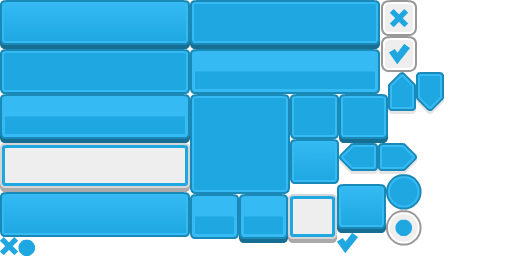
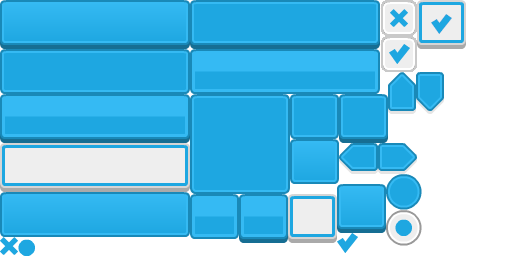
Added assets for drawing checkboxes and added checkbox for toggling the sound effects (currently hidden). Also updated the UiBlueSheetHover sprite sheet so that hover states are more noticable.

diff --git a/SnakeGame.cs b/SnakeGame.cs
@@ -141,6 +141,11 @@ namespace MonoSnake
             private CenteredUiDialog _scoreEntryCenteredUiDialog;
             private Sprite _uiButtonBlueSheetHoverCancel;
             private Sprite _uiButtonBlueSheetHoverConfirm;
+            private Sprite _uiCheckBoxBlueSheetBox;
+            private Sprite _uiCheckBoxBlueSheetChecked;
+            private ToggleUiButton _soundEnabledCheckBoxToggle;
+            private Sprite _uiCheckBoxBlueSheetHoverChecked;
+            private Sprite _uiCheckBoxBlueSheetHoverBox;
 
             #endregion Rectangles
 
@@ -370,6 +375,14 @@ namespace MonoSnake
 
             _uiButtonBlueSheetHoverConfirm = new Sprite(_uiBlueSpriteSheetHover, 36, 381, 36, 36);
 
+            _uiCheckBoxBlueSheetBox = new Sprite(_uiBlueSpriteSheet, 194, 288, 49, 49);
+
+            _uiCheckBoxBlueSheetChecked = new Sprite(_uiBlueSpriteSheet, 0, 417, 49, 49);
+
+            _uiCheckBoxBlueSheetHoverBox = new Sprite(_uiBlueSpriteSheetHover, 194, 288, 49, 49);
+
+            _uiCheckBoxBlueSheetHoverChecked = new Sprite(_uiBlueSpriteSheetHover, 0, 417, 49, 49);
+
 
 
             #endregion PositionedTextureSprites
@@ -543,6 +556,9 @@ namespace MonoSnake
             _scoreEntryCenteredUiDialog = new CenteredUiDialog(_graphics.GraphicsDevice, _dialogCenteredUiFrame, _dialogTitleFont, _dialogPromptFont, "New High Score", "Save High Score Entry?", confirmScoreEntryButton, cancelScoreEntryButton, Color.CornflowerBlue, Color.Black);
 
             _scoreBoard = new ScoreBoard(Assembly.GetEntryAssembly().Location, _graphics.GraphicsDevice, _scoreBoardFont, _highScoresUiFrame, _scoreEntryCenteredUiDialog, SCREEN_WIDTH, SCREEN_HEIGHT);
+
+            _soundEnabledCheckBoxToggle = new ToggleUiButton(_uiCheckBoxBlueSheetBox, _uiCheckBoxBlueSheetHoverBox, _uiCheckBoxBlueSheetChecked, _uiCheckBoxBlueSheetHoverChecked, new Vector2(SCREEN_WIDTH / 2, SCREEN_HEIGHT / 2), 0f);
+            _soundEnabledCheckBoxToggle.IsEnabled = true;
         }
 
         private void InputController_StartEvent(object sender, EventArgs e)
@@ -813,7 +829,8 @@ namespace MonoSnake
 
             _startScreenHighScoresToggleButton.Update(gameTime);
             var deltaTime = (float) gameTime.ElapsedGameTime.TotalSeconds;
-            _frameCounter.Update(gameTime); 
+            _frameCounter.Update(gameTime);
+            _soundEnabledCheckBoxToggle.Update(gameTime);
             base.Update(gameTime);
         }
 
@@ -885,6 +902,11 @@ namespace MonoSnake
 
             _startScreenHighScoresToggleButton.Draw(_spriteBatch, gameTime);
 
+            //_uiCheckBoxBlueSheetBox.Draw(_spriteBatch, new Vector2(SCREEN_WIDTH / 2, SCREEN_HEIGHT / 2), 0f);
+            //_uiCheckBoxBlueSheetCheck.Draw(_spriteBatch, new Vector2(SCREEN_WIDTH / 2 + _uiCheckBoxBlueSheetBox.Width /2 -10, SCREEN_HEIGHT / 2 + _uiCheckBoxBlueSheetBox.Height /2 -12), 0f);
+
+            //_soundEnabledCheckBoxToggle.Draw(_spriteBatch, gameTime);
+            
             _spriteBatch.End();
 
             base.Draw(gameTime);

diff --git a/UI/ToggleUiButton.cs b/UI/ToggleUiButton.cs
@@ -69,7 +69,7 @@ namespace MonoSnake.UI
 
             if (IsMouseOver)
             {
-                Sprite = !_isToggled ? _firstHoverStateSprite : _secondHoverStateSprite;
+                    Sprite = !_isToggled ? _firstHoverStateSprite : _secondHoverStateSprite;
             }
             else
             {
